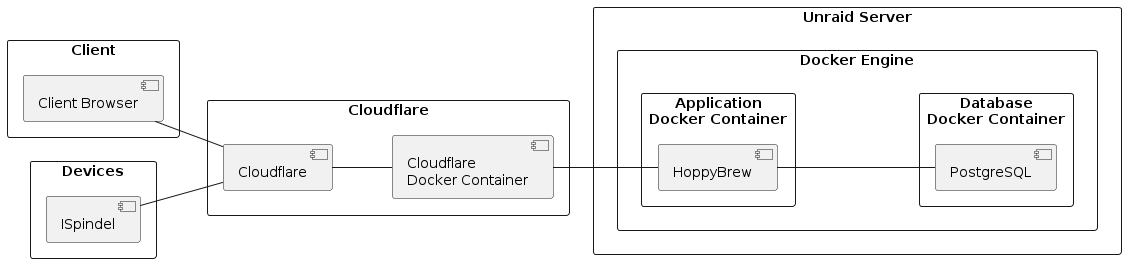
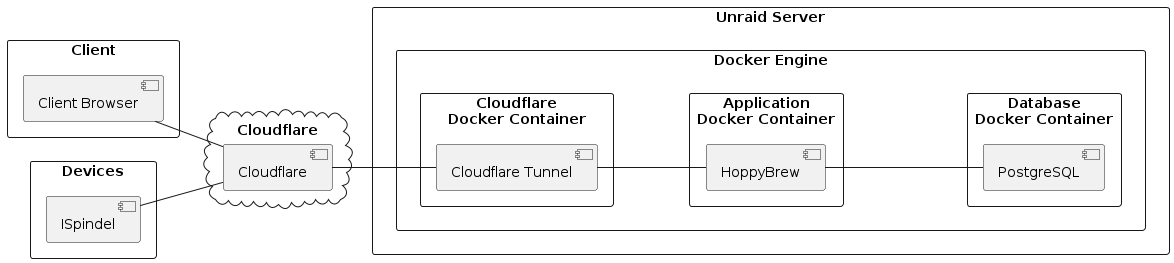
Update

diff --git a/documents/01-Conception-Phase/00-HoppyBrew.md b/documents/01-Conception-Phase/00-HoppyBrew.md
@@ -579,8 +579,9 @@ cloud "Cloudflare" {
 }
 rectangle "Unraid Server" {
     rectangle "Docker Engine" {
-        rectangle "Cloudflare" {
-            component "Cloudflare\nDocker Container" as cloudflareTunnel
+
+        rectangle "Cloudflare\nDocker Container" {
+            component "Cloudflare Tunnel" as cloudflareTunnel
         }
 
         rectangle "Application\nDocker Container" {

diff --git a/documents/01-Conception-Phase/chapters/05_Building_Block_View.md b/documents/01-Conception-Phase/chapters/05_Building_Block_View.md
@@ -129,8 +129,9 @@ cloud "Cloudflare" {
 }
 rectangle "Unraid Server" {
     rectangle "Docker Engine" {
-        rectangle "Cloudflare" {
-            component "Cloudflare\nDocker Container" as cloudflareTunnel
+
+        rectangle "Cloudflare\nDocker Container" {
+            component "Cloudflare Tunnel" as cloudflareTunnel
         }
 
         rectangle "Application\nDocker Container" {
